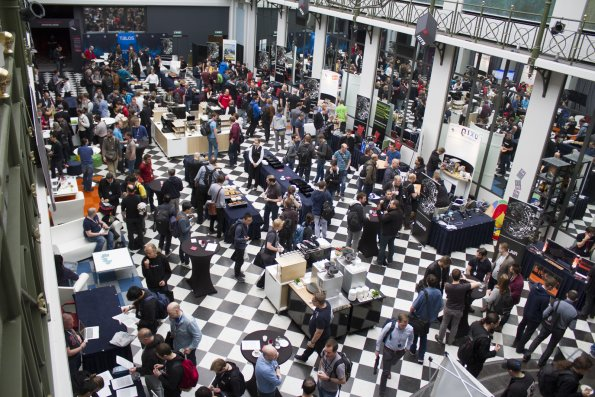
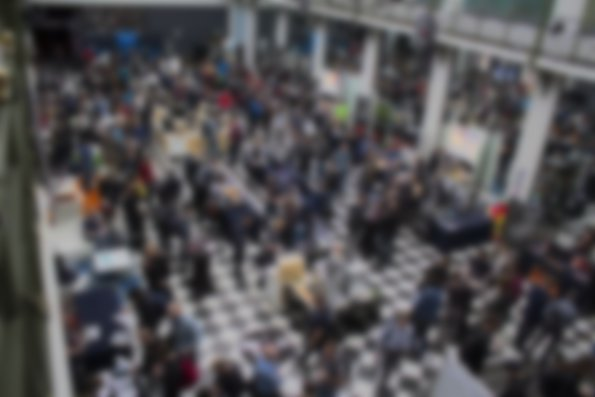
added blurred mastheads

diff --git a/_posts/2017-02-14-pcb-0.8-prototypes-ordered.md b/_posts/2017-02-14-pcb-0.8-prototypes-ordered.md
@@ -1,12 +1,13 @@
 ---
-layout:     post
-title:      "PCB 0.8 Prototypes Ordered"
-date:       2017-02-14 12:00:00 +0000
-author:     Steve
-categories: hidiot prototypes
-color:      green
-image:      /assets/images/posts/pcb-08-ordered.jpg
-image_alt:  "PCB 0.8 Prototypes"
+layout:          post
+title:           "PCB 0.8 Prototypes Ordered"
+date:            2017-02-14 12:00:00 +0000
+author:          Steve
+categories:      hidiot prototypes
+color:           green
+image:           /assets/images/posts/pcb-08-ordered-orig.jpg
+image_alt:       "PCB 0.8 Prototypes"
+masthead_image:  /assets/images/posts/pcb-08-ordered.jpg
 ---
 Our 0.8 prototypes have been finalised, and the order is being sent out as I type. These will feature a new breakout area and two buttons for haptic feedback. Hopefully this is our last prototype design, although there may be minor changes to resolve any outstanding board problems. Our boards are being lovingly manufactured in the UK by Ragworm and Stickelback Circuits.
 

diff --git a/_posts/2017-02-08-what-is-the-hidiot.md b/_posts/2017-02-08-what-is-the-hidiot.md
@@ -1,12 +1,13 @@
 ---
-layout:     post
-title:      "What is the HIDIOT?"
-date:       2017-02-08 12:00:00 +0000
-author:     Steve
-categories: hidiot
-color:      yellow
-image:      /assets/images/posts/getting-started.jpg
-image_alt:  "What is the HIDIOT?"
+layout:          post
+title:           "What is the HIDIOT?"
+date:            2017-02-08 12:00:00 +0000
+author:          Steve
+categories:      hidiot
+color:           yellow
+image:           /assets/images/posts/getting-started-orig.jpg
+image_alt:       "What is the HIDIOT?"
+masthead_image:  /assets/images/posts/getting-started.jpg
 ---
 The Human Interface Device Input/Output Toolkit (HIDIOT) is a tool designed to help people learn how to hack hardware, through the medium of hardware hacking. We started work on HIDIOT back in early 2016 with the idea of creating a simple USB Human Interface Device tool that anyone could assemble, and quickly worked on making it the official badge for UK security event 44CON.
 

diff --git a/_posts/2017-02-10-getting-started-with-hidiot.md b/_posts/2017-02-10-getting-started-with-hidiot.md
@@ -1,12 +1,13 @@
 ---
-layout:     post
-title:      "Getting Started With HIDIOT"
-date:       2017-02-10 12:00:00 +0000
-author:     Steve
-categories: hidiot
-color:      blue
-image:      /assets/images/posts/getting-started.jpg
-image_alt:  "Getting Stated With HIDIOT"
+layout:          post
+title:           "Getting Started With HIDIOT"
+date:            2017-02-10 12:00:00 +0000
+author:          Steve
+categories:      hidiot
+color:           blue
+image:           /assets/images/posts/getting-started-orig.jpg
+image_alt:       "Getting Stated With HIDIOT"
+masthead_image:  /assets/images/posts/getting-started.jpg
 ---
 Our original HIDIOT prototype used for the 44CON badge was a massive hit at the event. Over 100 badges were assembled over a two day period, and we could’ve gone on for longer! Many thanks to Tomasz Miklas for running the table, and to everyone involved in making the HIDIOT badge happen!
 

diff --git a/_posts/2017-03-07-hidiot-0.8-is-here.md b/_posts/2017-03-07-hidiot-0.8-is-here.md
@@ -1,12 +1,13 @@
 ---
-layout:     post
-title:      "HIDIOT 0.8 is here!"
-date:       2017-03-07 12:00:00 +0000
-author:     Steve
-categories: hidiot prototypes
-color:      violet
-image:      /assets/images/posts/0_8c_boards.jpg
-image_alt:  "HIDIOT 0.8 boards"
+layout:          post
+title:           "HIDIOT 0.8 is here!"
+date:            2017-03-07 12:00:00 +0000
+author:          Steve
+categories:      hidiot prototypes
+color:           violet
+image:           /assets/images/posts/0_8c_boards-orig.jpg
+image_alt:       "HIDIOT 0.8 boards"
+masthead_image:  /assets/images/posts/0_8c_boards.jpg
 ---
 Our 0.8 prototypes arrived and we've started testing them. So far (touch wood!) everything's working fine. This will be the last board built with Ragworm as we move from prototype to the Design for Manufacture stage.
 

diff --git a/_posts/2017-02-12-digistump-and-the-hidiot.md b/_posts/2017-02-12-digistump-and-the-hidiot.md
@@ -1,12 +1,13 @@
 ---
-layout:     post
-title:      "Digistump and the HIDIOT"
-date:       2017-02-12 12:00:00 +0000
-author:     Steve
-categories: hidiot digistump
-color:      red
-image:      /assets/images/posts/digistump.jpg
-image_alt:  "Digistump"
+layout:          post
+title:           "Digistump and the HIDIOT"
+date:            2017-02-12 12:00:00 +0000
+author:          Steve
+categories:      hidiot digistump
+color:           red
+image:           /assets/images/posts/digistump-orig.jpg
+image_alt:       "Digistump"
+masthead_image:  /assets/images/posts/digistump.jpg
 ---
 Very kindly the incredible people at Digistump (home of the awesome Digispark) have allowed us to continue using their software into the HIDIOT’s production. This means several awesome things:
 

diff --git a/assets/images/README.md b/assets/images/README.md
@@ -1,0 +1,16 @@
+# Adding images
+* install imagemagick (https://www.imagemagick.org/script/download.php)
+  * on MacOS, `brew install imagemagick` or `port install ImageMagick`
+
+## Posts
+* add desired image to assets/images/posts directory as <image-name>-orig.jpg
+* `convert <image-name>-orig.jpg -gaussian-blur 0x4 -modulate 80 <image-name>.jpg`
+
+Original image will remain un-edited for use in post body while the blurred copy
+will be used for the masthead.
+
+## Events
+* add desired image to events/images/posts directory
+* `convert <image-name>.jpg -gaussian-blur 0x4 -modulate 80 <image-name>.jpg`
+
+Original image will be overwritten as it is primarily used for masthead.
